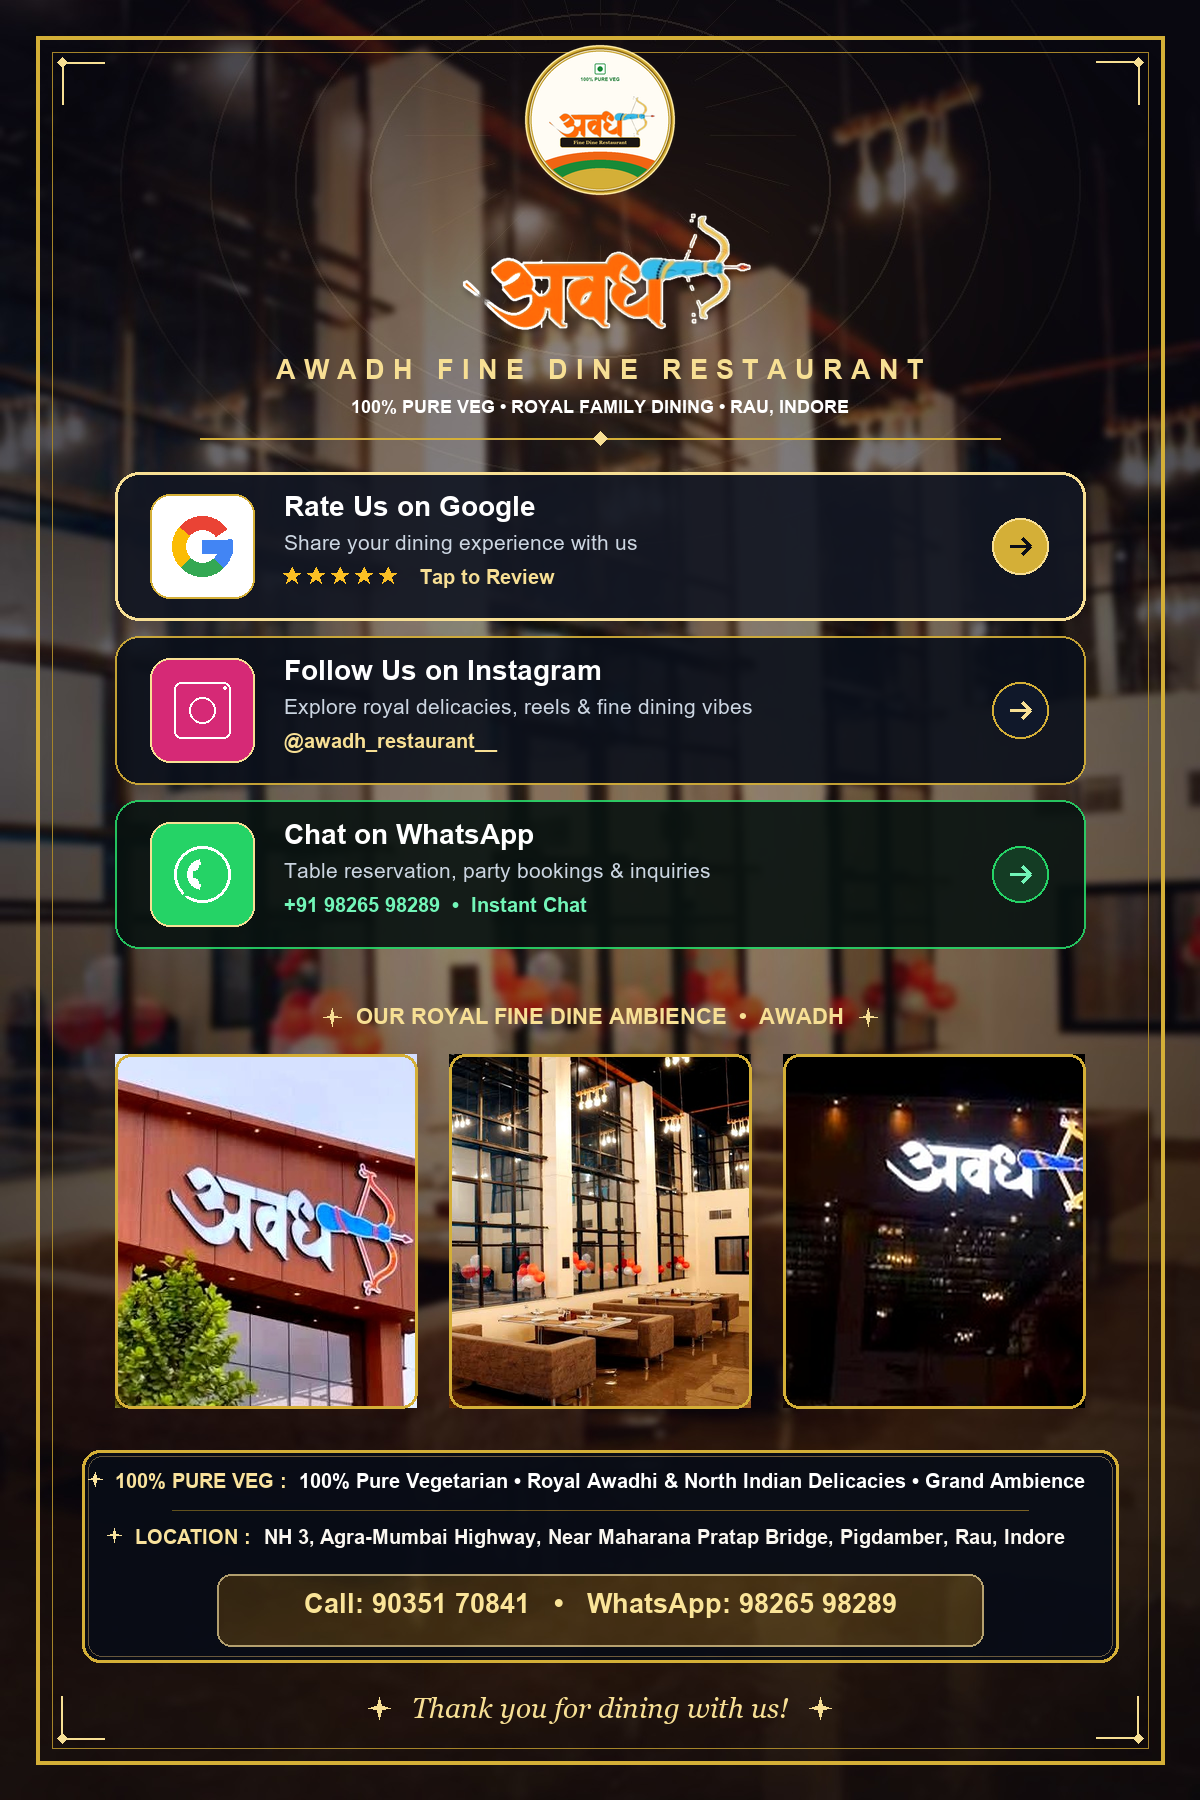
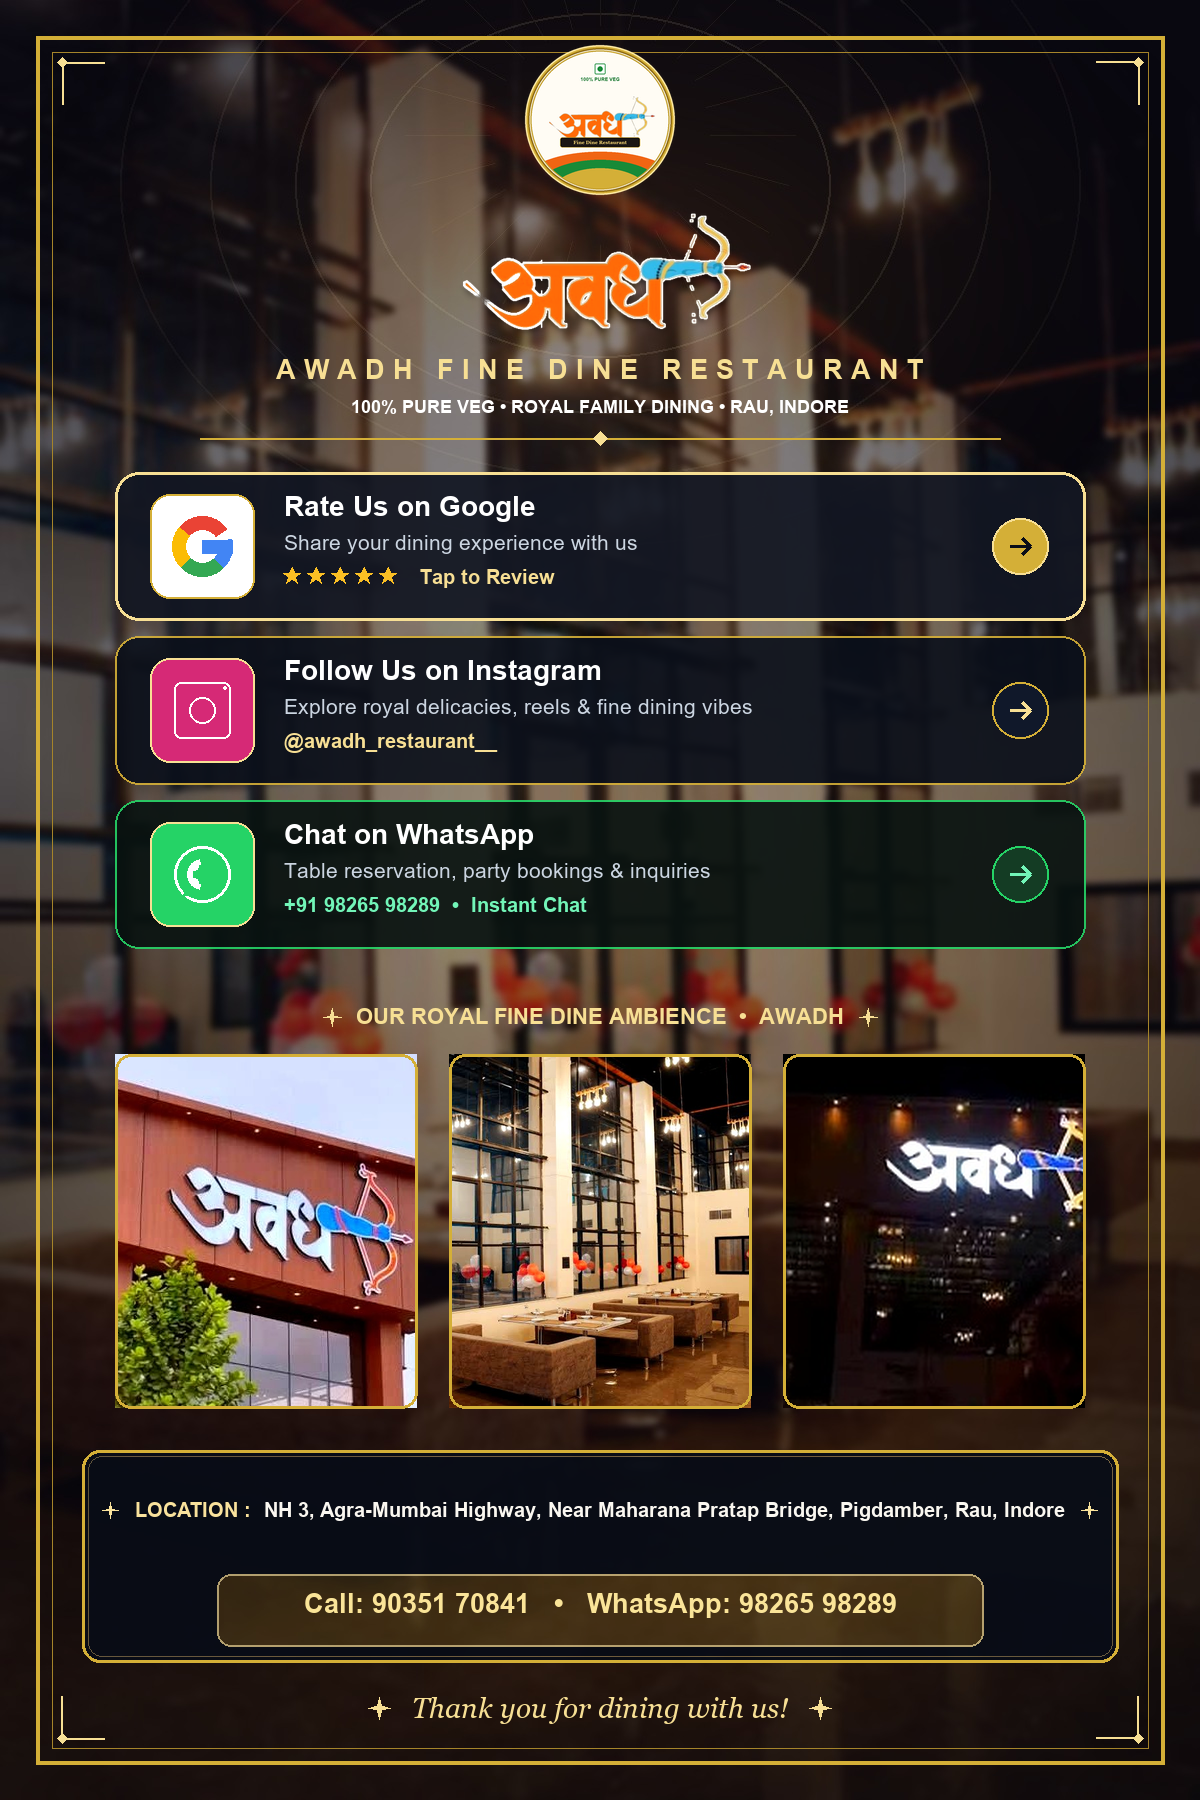
Remove redundant 100% pure veg from footer, keep single top tagline

Changed region(s): [[0.0925, 0.8089, 0.8942, 0.8711]]

diff --git a/index.html b/index.html
@@ -808,11 +808,7 @@
         <div class="info-box">
             <div class="outlets-list">
                 <div class="outlet-item">
-                    <span class="outlet-badge">✦ 100% PURE VEG • FINE DINE RESTAURANT ✦</span>
-                    <div class="address-line" id="uiHighlight">100% Pure Vegetarian • Royal Awadhi & North Indian Delicacies • Grand Ambience</div>
-                </div>
-                <div class="outlet-item">
-                    <span class="outlet-badge">✦ RAU, AB ROAD • INDORE ✦</span>
+                    <span class="outlet-badge">✦ LOCATION • RAU, AB ROAD, INDORE ✦</span>
                     <div class="address-line" id="uiAddressPrimary">NH 3, Agra-Mumbai Highway, Near Maharana Pratap Bridge, Pigdamber, Rau, Indore</div>
                 </div>
             </div>
@@ -846,7 +842,7 @@
         </div>
     </div>
 
-    <script src="config.js?v=c2ee3a37"></script>
+    <script src="config.js?v=7151d273"></script>
     <script>
         function openLightbox(src) {
             const modal = document.getElementById('lightboxModal');

diff --git a/standee.html b/standee.html
@@ -456,8 +456,6 @@
         <!-- Footer -->
         <div class="standee-footer">
             <div class="standee-info-box">
-                <div class="standee-addr"><strong>✦ 100% PURE VEG:</strong> <span id="stHighlight">100% Pure Vegetarian • Royal Awadhi & North Indian Delicacies • Grand Ambience</span></div>
-                <div class="standee-addr-divider"></div>
                 <div class="standee-addr"><strong>✦ LOCATION:</strong> <span id="stAddress">NH 3, Agra-Mumbai Highway, Near Maharana Pratap Bridge, Pigdamber, Rau, Indore</span></div>
                 <div class="standee-phone" id="stPhone">Call: 90351 70841 &nbsp;•&nbsp; WhatsApp: 98265 98289</div>
             </div>
@@ -469,7 +467,7 @@
         </div>
     </div>
 
-    <script src="config.js?v=c2ee3a37"></script>
+    <script src="config.js?v=7151d273"></script>
     <script>
         function applyStandeeConfig(cfg) {
             if (!cfg) return;

diff --git a/config.js b/config.js
@@ -10,7 +10,7 @@ window.RESTAURANT_CONFIG = {
     subname: "AWADH FINE DINE RESTAURANT",
     hindiTitleUrl: "awadh_title.png?v=1",
     tagline: "100% PURE VEG • ROYAL FAMILY DINING • RAU, INDORE",
-    highlight: "100% Pure Vegetarian • Royal Awadhi & North Indian Delicacies • Grand Ambience",
+    highlight: "Royal Awadhi & North Indian Delicacies • Grand Ambience",
 
     // Primary Address & Location Details
     addressPrimaryLabel: "LOCATION",

diff --git a/generate_qr.py b/generate_qr.py
@@ -724,9 +724,6 @@ def draw_footer(canvas, draw, config, w=1200):
         outline=(247, 223, 148, 90),
         width=1
     )
-    div_y = info_y1 + 60
-    gdraw.line([info_x1 + 90, div_y, info_x2 - 90, div_y], fill=(212, 175, 55, 115), width=1)
-
     gdraw.rounded_rectangle(
         [info_x1 + 135, info_y1 + 124, info_x2 - 135, info_y2 - 16],
         radius=14,
@@ -738,31 +735,9 @@ def draw_footer(canvas, draw, config, w=1200):
     canvas_rgba = Image.alpha_composite(canvas_rgba, glass)
     canvas.paste(canvas_rgba.convert("RGB"))
 
-    lbl1 = "100% PURE VEG :  "
-    txt1 = config.get("highlight", "Royal Awadhi, North Indian & Global Fine Dining")
-    f_size1 = 21
-    font_label1 = get_font(f_size1, bold=True)
-    font_addr1 = get_font(f_size1, bold=True)
-    b_lbl1 = draw.textbbox((0, 0), lbl1, font=font_label1)
-    b_txt1 = draw.textbbox((0, 0), txt1, font=font_addr1)
-    while ((b_lbl1[2] - b_lbl1[0]) + (b_txt1[2] - b_txt1[0])) > (w - 230) and f_size1 > 14:
-        f_size1 -= 1
-        font_label1 = get_font(f_size1, bold=True)
-        font_addr1 = get_font(f_size1, bold=True)
-        b_lbl1 = draw.textbbox((0, 0), lbl1, font=font_label1)
-        b_txt1 = draw.textbbox((0, 0), txt1, font=font_addr1)
-    w1_lbl = b_lbl1[2] - b_lbl1[0]
-    w1_txt = b_txt1[2] - b_txt1[0]
-    total_w1 = w1_lbl + w1_txt
-    x1_start = (w - total_w1) / 2
-    y1_row = info_y1 + 19 + (21 - f_size1) // 2
-    draw_sparkle(draw, x1_start - 20, y1_row + 10, radius=7, color=(249, 226, 156))
-    draw.text((x1_start, y1_row), lbl1, fill=(249, 226, 156), font=font_label1)
-    draw.text((x1_start + w1_lbl, y1_row), txt1, fill=(255, 255, 255), font=font_addr1)
-
     lbl2 = f"{config.get('addressPrimaryLabel', 'LOCATION')} :  "
     txt2 = config.get("addressPrimary", "NH 3, Near Maharana Pratap Bridge, Pigdamber, Rau, Indore")
-    f_size2 = 21
+    f_size2 = 23
     font_label2 = get_font(f_size2, bold=True)
     font_addr2 = get_font(f_size2, bold=True)
     b_lbl2 = draw.textbbox((0, 0), lbl2, font=font_label2)
@@ -777,10 +752,11 @@ def draw_footer(canvas, draw, config, w=1200):
     w2_txt = b_txt2[2] - b_txt2[0]
     total_w2 = w2_lbl + w2_txt
     x2_start = (w - total_w2) / 2
-    y2_row = info_y1 + 75 + (21 - f_size2) // 2
-    draw_sparkle(draw, x2_start - 20, y2_row + 10, radius=7, color=(249, 226, 156))
+    y2_row = info_y1 + 48
+    draw_sparkle(draw, x2_start - 24, y2_row + 12, radius=8, color=(249, 226, 156))
     draw.text((x2_start, y2_row), lbl2, fill=(249, 226, 156), font=font_label2)
     draw.text((x2_start + w2_lbl, y2_row), txt2, fill=(250, 247, 240), font=font_addr2)
+    draw_sparkle(draw, x2_start + total_w2 + 24, y2_row + 12, radius=8, color=(249, 226, 156))
 
     phone_disp = config.get("phoneDisplay") or config.get("phone", "90351 70841")
     wa_disp = config.get("whatsappDisplay") or config.get("whatsapp", "98265 98289")
@@ -1170,7 +1146,6 @@ def sync_html_files(config, config_path="config.js"):
         html = re.sub(r'(<title id="pageTitle">).*?(</title>)', lambda m: f"{m.group(1)}{name} | Rate Us on Google & Follow Us on Instagram{m.group(2)}", html)
         html = re.sub(r'(<div class="brand-subname" id="uiSubname">).*?(</div>)', lambda m: f"{m.group(1)}{subname}{m.group(2)}", html)
         html = re.sub(r'(<span id="uiTagline">).*?(</span>)', lambda m: f"{m.group(1)}{tagline}{m.group(2)}", html)
-        html = re.sub(r'(<div class="address-line" id="uiHighlight">).*?(</div>)', lambda m: f"{m.group(1)}{highlight}{m.group(2)}", html)
         html = re.sub(r'(<div class="address-line" id="uiAddressPrimary">).*?(</div>)', lambda m: f"{m.group(1)}{addr}{m.group(2)}", html)
         html = re.sub(r'(<a href="tel:)[^"]*(" class="contact-btn call-btn" id="uiPhoneLink">)', lambda m: f"{m.group(1)}{clean_phone}{m.group(2)}", html)
         html = re.sub(r'(<span id="uiPhoneText">).*?(</span>)', lambda m: f"{m.group(1)}Call: {phone_disp}{m.group(2)}", html)
@@ -1194,7 +1169,6 @@ def sync_html_files(config, config_path="config.js"):
             shtml = f.read()
         shtml = re.sub(r'(<div class="standee-subname" id="stSubname">).*?(</div>)', lambda m: f"{m.group(1)}{subname}{m.group(2)}", shtml)
         shtml = re.sub(r'(<div class="standee-location" id="stTagline">).*?(</div>)', lambda m: f"{m.group(1)}{tagline}{m.group(2)}", shtml)
-        shtml = re.sub(r'(<span id="stHighlight">).*?(</span>)', lambda m: f"{m.group(1)}{highlight}{m.group(2)}", shtml)
         shtml = re.sub(r'(<span id="stAddress">).*?(</span>)', lambda m: f"{m.group(1)}{addr}{m.group(2)}", shtml)
         shtml = re.sub(r'(<div class="standee-phone" id="stPhone">).*?(</div>)', lambda m: f"{m.group(1)}Call: {phone_disp} &nbsp;•&nbsp; WhatsApp: {wa_short}{m.group(2)}", shtml)
         shtml = re.sub(r'(<div class="dual-qr-foot" id="stInstaFoot">).*?(</div>)', lambda m: f"{m.group(1)}{i_handle.upper()}{m.group(2)}", shtml)
